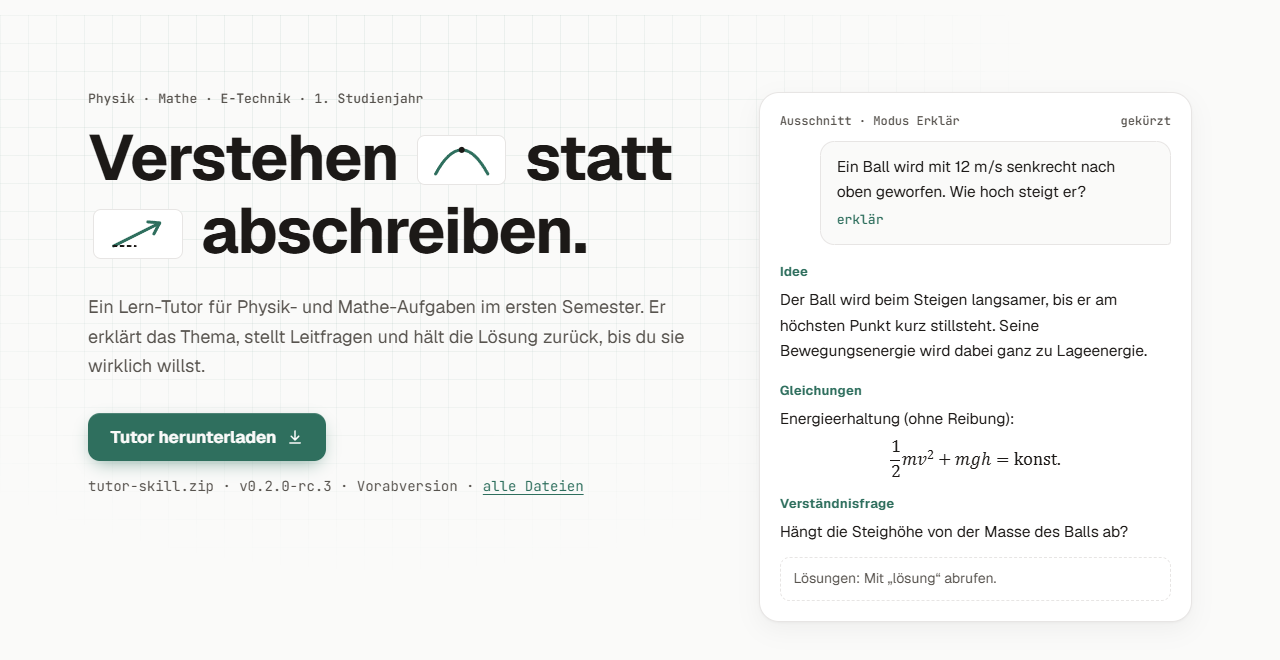
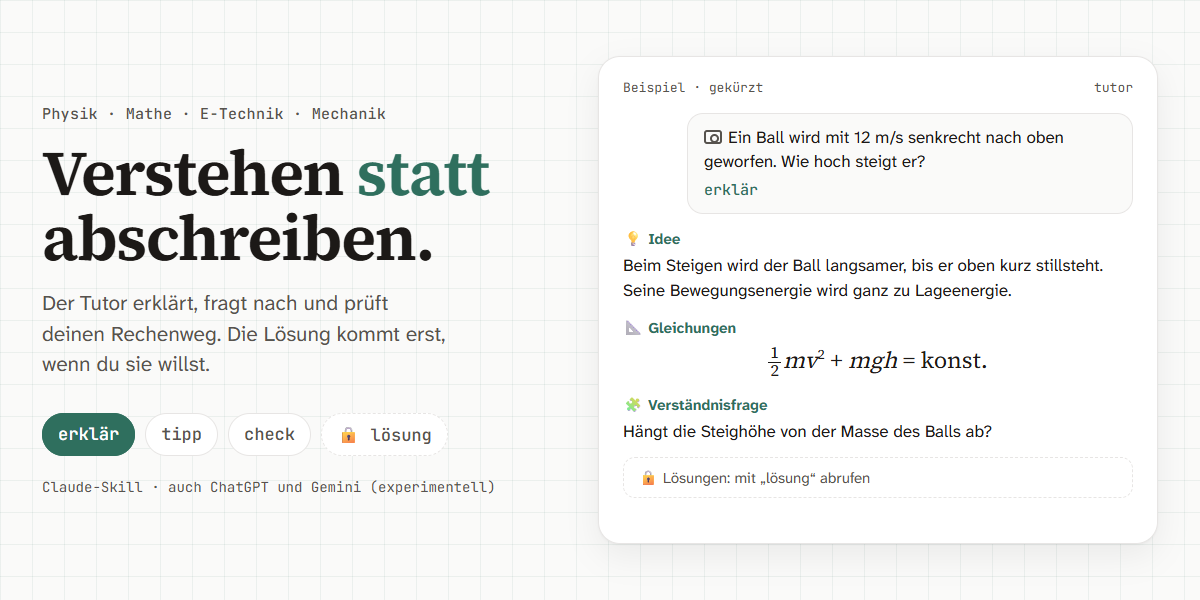
docs: README-Kopfbild als Animation, Seitentitel nennt MINT (#87)
Der Screenshot vom 2026-10-20 zeigte v0.2.0-rc.3, „1. Studienjahr“ und die
alte Schrift. Neu: 12-Sekunden-Animation erklär → tipp → check (hell/dunkel,
GIF je ca. 0,5 MB) aus docs/assets/hero/hero.html, erzeugt mit render.mjs;
dasselbe Skript schreibt das og:image hero-light.png (1200 × 600).
Seitentitel und og:title nennen MINT. Vault-Notiz 11 und Quellhashes
nachgeführt.

diff --git a/docs/assets/hero/hero.html b/docs/assets/hero/hero.html
@@ -1,0 +1,146 @@
+<!doctype html>
+<html lang="de">
+<head>
+<meta charset="utf-8">
+<meta name="viewport" content="width=1200">
+<title>tutor – README-Animation</title>
+<!-- Quelle der README-Animation; render.mjs erzeugt daraus hero-light.gif und hero-dark.gif. -->
+<style>
+@font-face { font-family: "Source Serif 4"; font-weight: 200 900; src: url(../../fonts/source-serif-4-latin.woff2) format("woff2"); }
+@font-face { font-family: "Atkinson Hyperlegible Next"; font-weight: 200 800; src: url(../../fonts/atkinson-next-latin.woff2) format("woff2"); }
+@font-face { font-family: "Atkinson Hyperlegible Next"; font-weight: 200 800; src: url(../../fonts/atkinson-next-latin-ext.woff2) format("woff2"); unicode-range: U+0100-024F, U+1E00-1EFF, U+2000-206F, U+2190-21FF; }
+@font-face { font-family: "JetBrains Mono"; font-weight: 400; src: url(../../fonts/jetbrains-mono-400.woff2) format("woff2"); }
+@font-face { font-family: "JetBrains Mono"; font-weight: 500; src: url(../../fonts/jetbrains-mono-500.woff2) format("woff2"); }
+:root {
+  --paper: #FAFAF9; --sheet: #FFFFFF; --ink: #1C1917; --pencil: #57534E; --hairline: #E7E5E4;
+  --accent: #2F6F5E; --wash: #E8F1EE; --amber: #B45309; --grid-line: rgba(47,111,94,.07);
+  --serif: "Source Serif 4", Georgia, serif;
+  --sans: "Atkinson Hyperlegible Next", "Segoe UI", sans-serif;
+  --mono: "JetBrains Mono", Consolas, monospace;
+}
+:root[data-theme="dark"] {
+  --paper: #161412; --sheet: #1E1B19; --ink: #F5F5F4; --pencil: #A8A29E; --hairline: #2E2A27;
+  --accent: #6FB39F; --wash: #1D2D28; --amber: #F59E0B; --grid-line: rgba(111,179,159,.06);
+}
+* { box-sizing: border-box; margin: 0; }
+html, body { width: 1200px; height: 600px; overflow: hidden; }
+body {
+  background: var(--paper); color: var(--ink); font-family: var(--sans);
+  background-image: linear-gradient(var(--grid-line) 1px, transparent 1px), linear-gradient(90deg, var(--grid-line) 1px, transparent 1px);
+  background-size: 32px 32px;
+  display: grid; grid-template-columns: 500px 560px; gap: 56px; padding: 56px 42px; align-items: center;
+}
+.kicker { font: 500 15px var(--mono); color: var(--pencil); letter-spacing: .02em; }
+h1 { font: 650 64px/1.02 var(--serif); letter-spacing: -.02em; margin: 16px 0 18px; }
+h1 em { font-style: normal; color: var(--accent); }
+.lead { font-size: 21px; line-height: 1.45; color: var(--pencil); max-width: 30ch; }
+.steps { display: flex; gap: 10px; margin-top: 34px; }
+.step { position: relative; font: 500 17px var(--mono); padding: 9px 15px; border-radius: 999px; border: 1px solid var(--hairline); background: var(--sheet); color: var(--pencil); }
+.step i { position: absolute; inset: -1px; border-radius: inherit; background: var(--accent); opacity: var(--w, 0); }
+.step span { position: relative; }
+.step.lock { border-style: dashed; }
+.foot { margin-top: 22px; font: 400 14px var(--mono); color: var(--pencil); }
+
+.card { position: relative; height: 488px; background: var(--sheet); border: 1px solid var(--hairline); border-radius: 22px; padding: 22px 24px; box-shadow: 0 1px 2px rgba(28,25,23,.04), 0 12px 32px rgba(28,25,23,.07); overflow: hidden; }
+.bar { display: flex; justify-content: space-between; font: 400 13px var(--mono); color: var(--pencil); }
+.scene { position: absolute; left: 24px; right: 24px; top: 56px; }
+.user { margin-left: 64px; background: var(--paper); border: 1px solid var(--hairline); border-radius: 16px; padding: 12px 16px; font-size: 17px; line-height: 1.4; }
+.user code { display: inline-block; margin-top: 6px; font: 500 15px var(--mono); color: var(--accent); }
+.user .cam { display: inline-block; width: 18px; height: 14px; margin-right: 6px; vertical-align: -1px; border: 2px solid var(--pencil); border-radius: 3px; position: relative; }
+.user .cam::after { content: ""; position: absolute; left: 4px; top: 2px; width: 5px; height: 5px; border: 2px solid var(--pencil); border-radius: 50%; }
+.t { margin-top: 14px; }
+.h { font-weight: 700; font-size: 15px; color: var(--accent); margin-bottom: 4px; }
+.p { font-size: 17px; line-height: 1.45; }
+.eq { font: 400 23px var(--serif); text-align: center; margin: 6px 0 2px; }
+.eq sup { font-size: .6em; }
+.frac { display: inline-flex; flex-direction: column; vertical-align: middle; font-size: .72em; line-height: 1; margin-right: 2px; }
+.frac span:first-child { border-bottom: 1.5px solid currentColor; padding: 0 2px 1px; }
+ol.p { padding-left: 22px; }
+ol.p li { margin: 2px 0; }
+.lockline { margin-top: 14px; border: 1px dashed var(--hairline); border-radius: 12px; padding: 9px 14px; font-size: 15px; color: var(--pencil); }
+.ok { color: var(--accent); font-weight: 700; }
+.err { color: var(--amber); font-weight: 700; }
+.mark { background: color-mix(in srgb, var(--amber) 18%, transparent); border-radius: 4px; padding: 0 3px; }
+[data-in] { opacity: 0; }
+</style>
+</head>
+<body>
+<section>
+  <p class="kicker">Physik · Mathe · E-Technik · Mechanik</p>
+  <h1>Verstehen <em>statt</em> abschreiben.</h1>
+  <p class="lead">Der Tutor erklärt, fragt nach und prüft deinen Rechenweg. Die Lösung kommt erst, wenn du sie willst.</p>
+  <div class="steps">
+    <div class="step" data-on="0 4"><i></i><span>erklär</span></div>
+    <div class="step" data-on="4 8"><i></i><span>tipp</span></div>
+    <div class="step" data-on="8 12"><i></i><span>check</span></div>
+    <div class="step lock"><i></i><span>🔒 lösung</span></div>
+  </div>
+  <p class="foot">Claude-Skill · auch ChatGPT und Gemini (experimentell)</p>
+</section>
+
+<figure class="card" aria-label="Beispiel eines Lernverlaufs, gekürzt">
+  <div class="bar"><span>Beispiel · gekürzt</span><span>tutor</span></div>
+
+  <div class="scene">
+    <div class="user" data-in="0.2" data-out="3.8"><span class="cam"></span>Ein Ball wird mit 12 m/s senkrecht nach oben geworfen. Wie hoch steigt er?<br><code>erklär</code></div>
+    <div class="t" data-in="0.9" data-out="3.8"><p class="h">💡 Idee</p><p class="p">Beim Steigen wird der Ball langsamer, bis er oben kurz stillsteht. Seine Bewegungsenergie wird ganz zu Lageenergie.</p></div>
+    <div class="t" data-in="1.6" data-out="3.8"><p class="h">📐 Gleichungen</p><p class="eq"><span class="frac"><span>1</span><span>2</span></span><i>mv</i><sup>2</sup> + <i>mgh</i> = konst.</p></div>
+    <div class="t" data-in="2.3" data-out="3.8"><p class="h">🧩 Verständnisfrage</p><p class="p">Hängt die Steighöhe von der Masse des Balls ab?</p></div>
+    <p class="lockline" data-in="2.8" data-out="3.8">🔒 Lösungen: mit „lösung“ abrufen</p>
+  </div>
+
+  <div class="scene">
+    <div class="user" data-in="4.2" data-out="7.8"><code>tipp</code></div>
+    <div class="t" data-in="4.9" data-out="7.8"><p class="h">❓ Leitfragen</p>
+      <ol class="p">
+        <li data-in="5.1" data-out="7.8">Welche Größe soll herauskommen, in welcher Einheit?</li>
+        <li data-in="5.5" data-out="7.8">Wie schnell ist der Ball am höchsten Punkt?</li>
+        <li data-in="5.9" data-out="7.8">Warum fällt die Masse am Ende heraus?</li>
+      </ol>
+    </div>
+    <div class="t" data-in="6.5" data-out="7.8"><p class="h">➡ Nächster Schritt</p><p class="p">Beantworte die Fragen auf Papier und schick mir deinen Rechenweg.</p></div>
+    <p class="lockline" data-in="6.9" data-out="7.8">🔒 Lösungen: mit „lösung“ abrufen</p>
+  </div>
+
+  <div class="scene">
+    <div class="user" data-in="8.2" data-out="11.6">Mein Weg: ½ <i>mv</i>² = <i>mgh</i>, also <span class="mark"><i>h</i> = <i>v</i>²/<i>g</i></span> = 14,7 m<br><code>check</code></div>
+    <div class="t" data-in="8.9" data-out="11.6"><p class="h">🔍 Check</p>
+      <p class="p"><span class="ok">Richtig:</span> Energieansatz und Kürzen der Masse.</p>
+      <p class="p" style="margin-top:6px"><span class="err">Erster Fehler (Rechenfehler):</span> Beim Auflösen nach <i>h</i> ist der Faktor ½ verloren gegangen.</p>
+    </div>
+    <div class="t" data-in="9.7" data-out="11.6"><p class="eq"><i>h</i> = <span class="frac"><span><i>v</i><sup>2</sup></span><span>2<i>g</i></span></span></p></div>
+    <div class="t" data-in="10.2" data-out="11.6"><p class="h">➡ Nächster Schritt</p><p class="p">Rechne ab hier selbst weiter.</p></div>
+    <p class="lockline" data-in="10.6" data-out="11.6">🔒 Lösungen: mit „lösung“ abrufen</p>
+  </div>
+</figure>
+
+<script>
+const T = 12; // Länge einer Schleife in Sekunden
+const ease = x => { x = Math.min(1, Math.max(0, x)); return x * x * (3 - 2 * x); };
+const params = new URLSearchParams(location.search);
+if (params.get("theme")) document.documentElement.dataset.theme = params.get("theme");
+const items = [...document.querySelectorAll("[data-in]")];
+const steps = [...document.querySelectorAll("[data-on]")];
+window.render = t => {
+  for (const el of items) {
+    const a = ease((t - el.dataset.in) / 0.35) * (1 - ease((t - el.dataset.out) / 0.3));
+    el.style.opacity = a;
+    el.style.transform = `translateY(${(1 - ease((t - el.dataset.in) / 0.35)) * 10}px)`;
+  }
+  for (const el of steps) {
+    const [on, off] = el.dataset.on.split(" ").map(Number);
+    const w = ease((t - on) / 0.3) * (1 - ease((t - off + 0.3) / 0.3));
+    el.style.setProperty("--w", w);
+    el.style.color = w > 0.5 ? "var(--sheet)" : "";
+    el.style.borderColor = w > 0.5 ? "var(--accent)" : "";
+  }
+};
+window.LOOP = T;
+if (!params.has("render")) {
+  const t0 = performance.now();
+  const tick = now => { render(((now - t0) / 1000) % T); requestAnimationFrame(tick); };
+  requestAnimationFrame(tick);
+}
+</script>
+</body>
+</html>

diff --git a/docs/index.html b/docs/index.html
@@ -3,20 +3,20 @@
 <head>
 <meta charset="utf-8">
 <meta name="viewport" content="width=device-width, initial-scale=1">
-<title>Physik- und Mathe-Tutor fürs Studium – Claude Skill</title>
+<title>MINT-Tutor fürs Studium: Physik, Mathe, E-Technik, Mechanik – Claude Skill</title>
 <link rel="canonical" href="https://sae-l.github.io/tutor/">
 <meta name="description" content="Lern-Tutor für Physik, Mathe, E-Technik und Mechanik im Studium. Erklärt, gibt Leitfragen und hält die Lösung zurück, bis du sie willst. Als Claude Skill.">
 <meta name="theme-color" content="#FAFAF9" media="(prefers-color-scheme: light)">
 <meta name="theme-color" content="#161412" media="(prefers-color-scheme: dark)">
 <meta property="og:type" content="website">
-<meta property="og:title" content="Tutor – Physik und Mathe verstehen statt abschreiben">
+<meta property="og:title" content="Tutor – MINT-Aufgaben verstehen statt abschreiben">
 <meta property="og:description" content="Lern-Tutor fürs Studium: erklärt, stellt Leitfragen und hält die Lösung zurück, bis du sie willst.">
 <meta property="og:url" content="https://sae-l.github.io/tutor/">
 <meta property="og:locale" content="de_DE">
 <meta property="og:image" content="https://sae-l.github.io/tutor/assets/hero-light.png">
-<meta property="og:image:width" content="1280">
-<meta property="og:image:height" content="660">
-<meta property="og:image:alt" content="Tutor-Landingpage: Verstehen statt abschreiben">
+<meta property="og:image:width" content="1200">
+<meta property="og:image:height" content="600">
+<meta property="og:image:alt" content="Tutor: Verstehen statt abschreiben – Antwort im Modus erklär">
 <meta name="twitter:card" content="summary_large_image">
 <script type="application/ld+json">
 {

diff --git a/CHANGELOG.md b/CHANGELOG.md
@@ -5,6 +5,7 @@ Format angelehnt an [Keep a Changelog](https://keepachangelog.com/de/1.1.0/). Ve
 ## [Unveröffentlicht]
 
 ### Geändert
+- README-Kopfbild als Animation statt Screenshot vom 2026-10-20 (zeigte v0.2.0-rc.3, „1. Studienjahr“ und die alte Schrift): 12 Sekunden erklär → tipp → check an einer Wurfaufgabe, die Lösung bleibt gesperrt; hell und dunkel als GIF (je etwa 0,5 MB). Quelle `docs/assets/hero/hero.html` mit Schriften und Farben der Landingpage, erzeugt mit `docs/assets/hero/render.mjs` (Playwright, ffmpeg); dasselbe Skript schreibt das Vorschaubild `hero-light.png` (1200 × 600, og:image), `hero-dark.png` entfällt. Seitentitel und og:title nennen MINT statt nur Physik und Mathe. Vault-Notiz 11 und Quellhashes nachgeführt.
 - Landingpage-Schrift: Source Serif 4 für Überschriften und Fließtext (passt zu den Formeln in MathML), Atkinson Hyperlegible Next für Menü, Knöpfe, Auswahlchips, Tabellen und Kennzahlen (klar unterscheidbare Zeichen bei kleinen Größen). Beide lokal als variable WOFF2 mit OFL-Lizenz in `docs/fonts/`; Geist und seine Lizenz entfernt. Geprüft bei 320, 375, 820 und 1280 px.
 - Landingpage auf dem Handy: Abschnittsmenü bleibt unter 768 px als wischbare Zeile sichtbar statt ausgeblendet; Vergleichstabelle passt ab 320 px Breite (Spalten mit `minmax(0, 1fr)`, Silbentrennung) und wird nicht mehr rechts abgeschnitten; Sprunglink behält beim Überfahren im Dunkelmodus lesbaren Kontrast. Geprüft bei 320, 375, 820 und 1280 px.
 - Doku an v0.3.0-rc.3 angeglichen: README nennt im englischen Absatz Studium statt erstem Studienjahr sowie Technische Mechanik, erwähnt Bild und Kernsatz des Erklärbogens, führt v0.2.1 als vorherige Version und zählt 14 U-Fälle statt sechs; Tippfehler in der Repo-Tabelle behoben. `SECURITY.md` unterstützt die als „Latest“ markierte Version, `CONTRIBUTING.md` verweist auf „Stand und Grenzen“ und vermerkt die Latest-Markierung von rc.3 ohne Gate, `docs/CHATGPT.md` nennt 14 statt zwölf Schutzregressionen. Tutor-Verhalten unverändert.

diff --git a/Obsidian-tutor/11 Website.md b/Obsidian-tutor/11 Website.md
@@ -1,7 +1,7 @@
 ---
 title: Die Website erklärt
 tags: [tutor, website]
-updated: 2026-10-27
+updated: 2026-10-28
 ---
 
 # Die Website
@@ -40,7 +40,7 @@ flowchart TD
 - Hell- und Dunkelmodus folgen der Systemeinstellung; Farben stehen als CSS-Variablen in `:root`, Inline-SVGs nutzen dieselben Variablen.
 - Bewegung nur einmalig und nur mit `transform`, `opacity` und Strichlänge; keine Endlosschleifen. `prefers-reduced-motion` zeigt alles sofort und vollständig.
 - Neu: Sprunglink zum Inhalt, Favicon als Daten-URI, Open-Graph-Angaben. Weiterhin keine externen Schriften oder Skripte.
-- Die README zeigt einen Ausschnitt der Seite (`docs/assets/hero-light.png`, `hero-dark.png`) und zwei Mermaid-Flowcharts.
+- Die README zeigt eine 12-Sekunden-Animation (erklär → tipp → check, `docs/assets/hero-light.gif`, `hero-dark.gif`) und zwei Mermaid-Flowcharts. Quelle `docs/assets/hero/hero.html`, erzeugt mit `docs/assets/hero/render.mjs`; dasselbe Skript schreibt das Vorschaubild `hero-light.png` (og:image).
 - Geprüft: lokale Darstellung in Chrome (hell, dunkel, reduzierte Bewegung, schmale Ansicht) und Strukturtests. Nicht geprüft: das veröffentlichte GitHub-Pages-Deployment.
 
 ## Technische Funktionsweise

diff --git a/README.md b/README.md
@@ -2,8 +2,8 @@
 
 <a href="https://sae-l.github.io/tutor/">
   <picture>
-    <source media="(prefers-color-scheme: dark)" srcset="docs/assets/hero-dark.png">
-    <img alt="Landingpage des Tutors: Verstehen statt abschreiben – mit Ausschnitt einer Antwort im Modus Erklär" src="docs/assets/hero-light.png">
+    <source media="(prefers-color-scheme: dark)" srcset="docs/assets/hero-dark.gif">
+    <img alt="Animation: Der Tutor erklärt eine Wurfaufgabe (erklär), stellt Leitfragen (tipp) und findet den ersten Fehler im eigenen Rechenweg (check); die Lösung bleibt bis „lösung“ gesperrt" src="docs/assets/hero-light.gif" width="960">
   </picture>
 </a>
 
